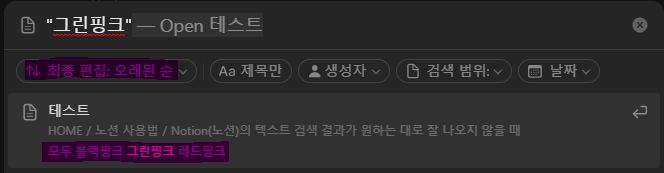
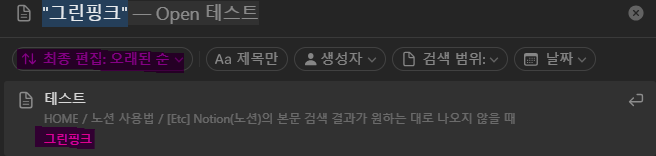
Fix: Etc Notion Search 포스트 수정

diff --git a/_posts/2023-09-06-post-etc-notion-search.md b/_posts/2023-09-06-post-etc-notion-search.md
@@ -27,6 +27,10 @@ last_modified_at: 2023-09-06T00:00:00
 - 제목 검색은 잘 되는 편이고 제목이 아닌 Markdown으로 된 본문 내용 검색이 원하는 대로 되지 않는 것에 대한 것임.
 - 검색해서 나오는 결과 목록에서 같은 페이지에 있는 단어의 검색이 직관적으로 노출되지 않는 것에 대한 내용임.
 
+<br>
+
+<br>
+
 # 1. 테스트용 텍스트
 
 먼저 아래와 같이 테스트 페이지에 일반 markdown 내용을 넣어놓고 Ctrl + P 로 검색을 해봤다.(참고로 맨 앞의 숫자는 이해를 돕기 위해 본 글에서만 삽입 한 것임)
@@ -42,17 +46,19 @@ last_modified_at: 2023-09-06T00:00:00
 
 (5) 중간에 그린핑크도 껴넣어볼까?
 
-(6) 모두 블랙핑크 그린핑크 레드핑크
+(6) 그린핑크
 
-(7) 유명한 블랙핑크와 뜨거운 핫핑크네
+(7) 모두 블랙핑크 그린핑크 레드핑크
 
-(8) 예쁜 핫핑크 아름다운 블랙핑크
+(8) 유명한 블랙핑크와 뜨거운 핫핑크네
 
-(9) 옐로컬러굿
+(9) 예쁜 핫핑크 아름다운 블랙핑크
 
-(10) 노란 옐로컬러
+(10) 옐로컬러굿
 
-(11) 옐로컬러
+(11) 노란 옐로컬러
+
+(12) 옐로컬러
 ```
 
 <br>
@@ -61,30 +67,30 @@ last_modified_at: 2023-09-06T00:00:00
 
 # 2. 테스트
 
-## 2.1. 검색 단어 일치가 아닌 검색 단어의 부분 집합이 많이 포함된 열이 노출
+## 2.1. 검색 단어 일치가 아닌 검색 단어의 부분 집합이 많이 포함된 줄이 노출
 
 ```
 검색 : 핫핑크
 예상 결과 : (1) 핫핑크
-실제 결과 : (6) 모두 블랙핑크 그린핑크 레드핑크
+실제 결과 : (7) 모두 블랙핑크 그린핑크 레드핑크
 ```
 
 ```
 검색 : 블랙핑크
 예상 결과 : (2) 블랙핑크
-실제 결과 : (6) 모두 블랙핑크 그린핑크 레드핑크
+실제 결과 : (7) 모두 블랙핑크 그린핑크 레드핑크
 ```
 
 ```
 검색 : 핑크
 예상 결과 : (1) 핫핑크
-실제 결과 : (6) 모두 블랙핑크 그린핑크 레드핑크
+실제 결과 : (7) 모두 블랙핑크 그린핑크 레드핑크
 ```
 
 ```
 검색 : 그린핑크
 예상 결과 : (5) 중간에 그린핑크도 껴넣어볼까?
-실제 결과 : (6) 모두 블랙핑크 그린핑크 레드핑크
+실제 결과 : (7) 모두 블랙핑크 그린핑크 레드핑크
 ```
 
 위의 테스트로 보면 다른 옵션을 변경하지 않은 검색 조건에서 정확한 단어를 찾는다기 보다
@@ -95,23 +101,23 @@ last_modified_at: 2023-09-06T00:00:00
 
 ```
 검색 : 옐로
-예상 결과 : (9) 옐로컬러굿
-실제 결과 : (9) 옐로컬러굿
+예상 결과 : (10) 옐로컬러굿
+실제 결과 : (10) 옐로컬러굿
 ```
 
 ```
 검색 : 옐로컬러
-예상 결과 : (10) 노란 옐로컬러
-실제 결과 : (10) 노란 옐로컬러
+예상 결과 : (11) 노란 옐로컬러
+실제 결과 : (11) 노란 옐로컬러
 ```
 
 ```
 검색 : 옐로컬러굿
-예상 결과 : (9) 옐로컬러굿
-실제 결과 : (11) 옐로컬러
+예상 결과 : (10) 옐로컬러굿
+실제 결과 : (12) 옐로컬러
 ```
 
-첫 번째와 두 번째 테스트에서는 예상대로 검색한 단어가 일치하는 최상단 텍스트가 검색되었는데, 세 번째 테스트에서는 `옐로컬러굿` 이 있음에도 더 아래의 `옐로컬러` 를 노출한다.
+첫 번째와 두 번째 테스트에서는 예상대로 검색한 단어가 일치하는 최상단 텍스트가 검색되었는데, 세 번째 테스트에서는 `옐로컬러굿` 이 있음에도 더 아래의 `옐로컬러` 줄을 노출한다.
 
 <br>
 
@@ -130,10 +136,10 @@ last_modified_at: 2023-09-06T00:00:00
 ```
 검색 : "그린핑크"
 예상 결과 : (5) 중간에 그린핑크도 껴넣어볼까?
-실제 결과 : (6) 모두 블랙핑크 그린핑크 레드핑크
+실제 결과 : (6) 그린핑크
 ```
 
-검색 단어에 조사가 합쳐진 어절이 먼저 검색되진 않지만  ***“공백으로 구분되어 있는 일치하는 단어가 검색된다”*** 라는 규칙은 쉽게 이해 할 수 있다. 사실 이 검색 결과는 최초 확인 단계에서의 테스트와 결과는 같지만 확인 단계의 기준은 “핑크” 단어가 많이 포함되는 줄을 노출하는 것이 기준이라는 점에서 차이가 있다.
+검색 단어에 조사가 합쳐진 어절이 먼저 검색되진 않지만  ***“공백으로 구분되어 있는 일치하는 단어가 검색된다”*** 라는 규칙은 쉽게 이해 할 수 있다. 추가로 앞서 확인 할 때 부분집합인 “핑크”가 많이 포함된 줄이 결과로 나왔는데 그 규칙도 무시한다는 것을 알 수 있다.
 
 그리고  정렬 옵션을 변경하는 이유는 아래 처럼 검색된 텍스트가 표시가 안되기 때문이다.
 
@@ -143,13 +149,13 @@ last_modified_at: 2023-09-06T00:00:00
 
 - 정렬 옵션 - 최종 편집: 오래된 순
 
-![etc-notion-search1]({{ '/assets/images/etc-notion-search2.png' | relative_url }}){: .align-center}
+![etc-notion-search2]({{ '/assets/images/etc-notion-search2.png' | relative_url }}){: .align-center}
 
 위와 같이 기본 옵션에서는 단어가 포함된 페이지만 알 수 있고, 검색된 텍스트 줄은 표시되지 않는다.
 
-이 방식을 쓰면 앞서 확인해 본 “옐로컬러굿”의 검색 결과를 제대로 찾을 수 있다.
+이 방식을 쓰면 앞서 확인해 본 “옐로컬러굿”의 검색 결과를 제대로 얻을 수 있다.
 
-![etc-notion-search1]({{ '/assets/images/etc-notion-search3.png' | relative_url }}){: .align-center}
+![etc-notion-search3]({{ '/assets/images/etc-notion-search3.png' | relative_url }}){: .align-center}
 
 참고로 모바일 앱에서는 결과가 또 조금 다르다. 😟
 
@@ -161,6 +167,6 @@ last_modified_at: 2023-09-06T00:00:00
 
 개인적으로는 검색한 단어와 일치하는 텍스트를 모두 보여주는게 직관적이라고 생각하고, 이게 안된다면 단어검색 우선과 같은 여러 옵션들이 있었으면 하는 바램이다.
 
-“”와 같은 방식을 필요로 하는 것은 검색으로 분노를 유발 했던 Outlook이 떠올라서 트라우마가 떠오른다.
+“”와 같은 방식을 필요로 하는 것은 검색으로 분노를 유발 했던 Outlook이 떠올라서 실망스럽다.
 
-노션 검색 알고리즘이 나만 불편했을 수도 있고, 이 방법이 완벽한 것은 아니지만 혹시나 나처럼 검색 때문에 메모 앱 변경을 고민한 사람에게 도움이 되기를 바란다.
+노션 검색 결과 노출 방식이 나만 불편했을 수도 있고, 이 방법이 완벽한 것은 아니지만 혹시나 나처럼 검색 때문에 메모 앱 변경을 고민한 사람에게 도움이 되기를 바란다.
